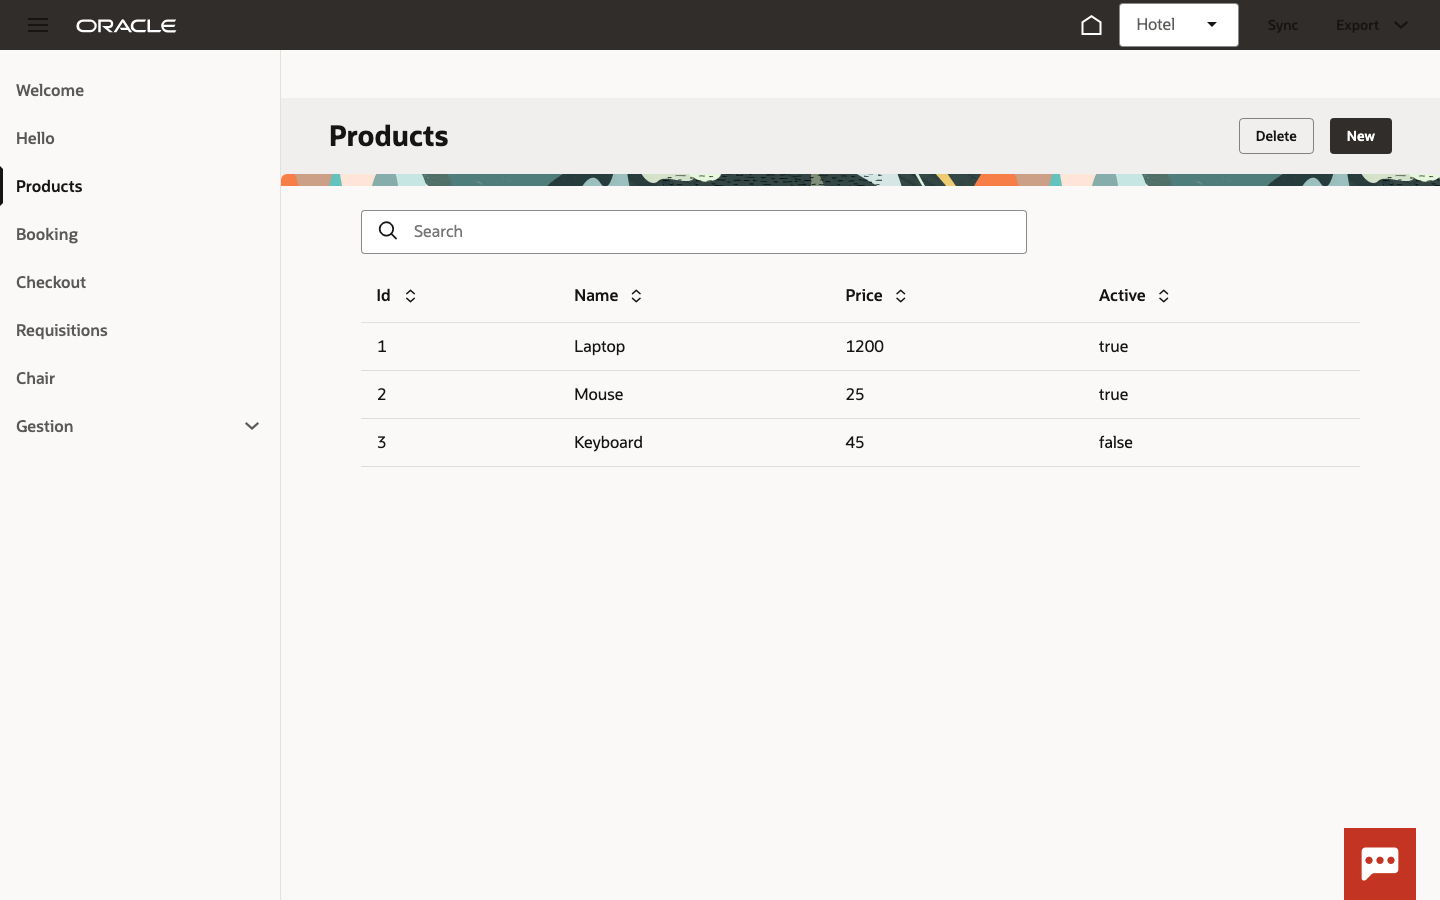
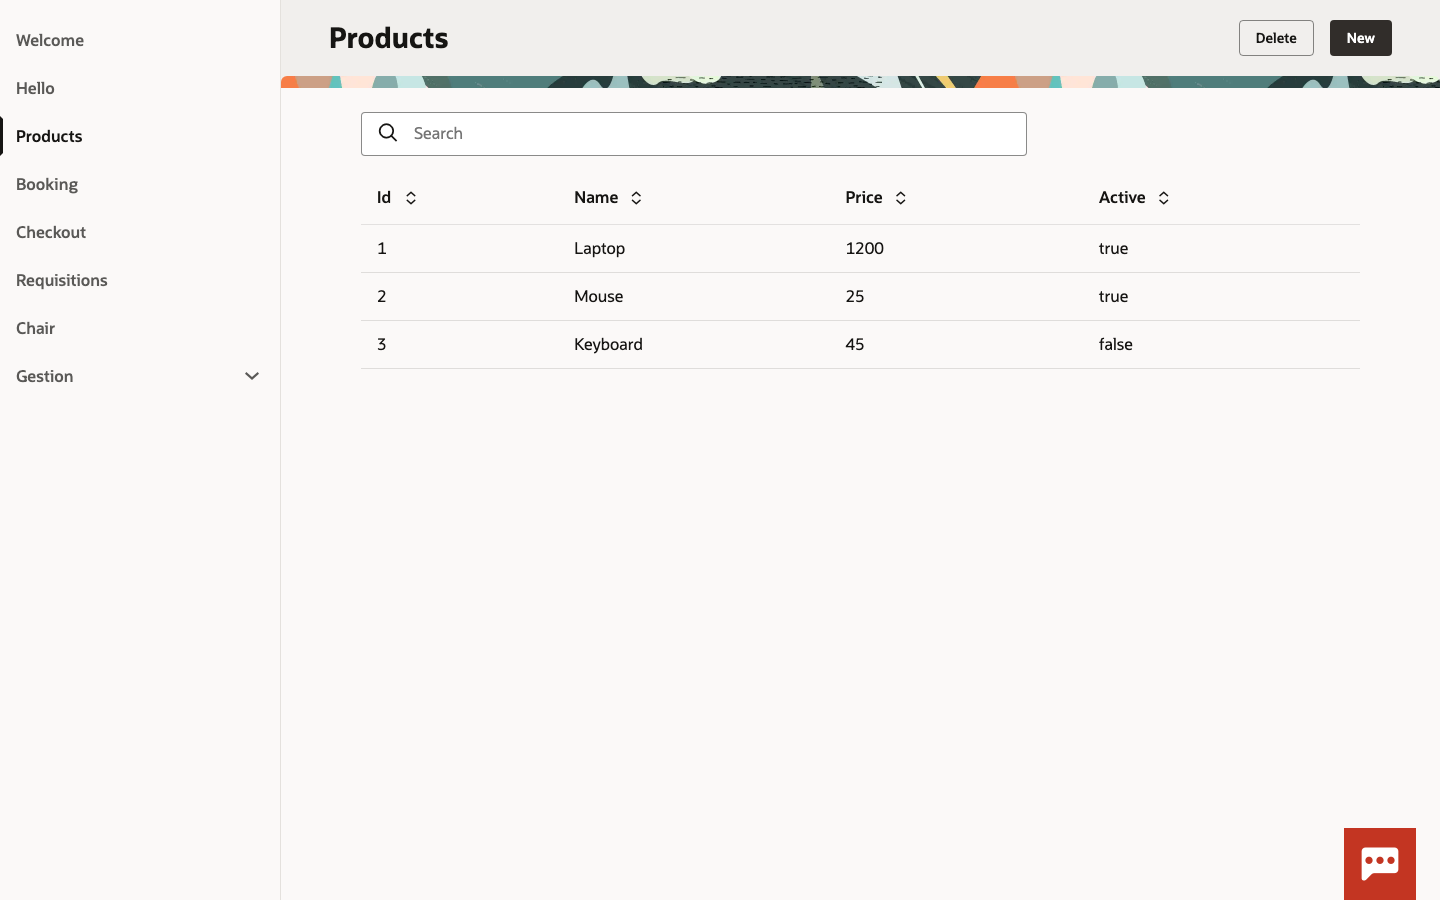
fix(vb): la rama de texto vacía pintaba una banda blanca encima del header
En páginas sin formulario (welcome, listado, wizard, overview) el div de la
rama de texto se renderizaba vacío y, con el padding vertical de los gutters,
dejaba 48px en blanco sobre el header. Ahora solo se pinta cuando hay texto
(!!mateuHostText). Headers a sangre verificados (gap=0) en welcome, products,
hello y checkout.

diff --git a/.dev/vb/mateu-vb/webApps/vbredwoodapp/flows/main/pages/main-start-page.html b/.dev/vb/mateu-vb/webApps/vbredwoodapp/flows/main/pages/main-start-page.html
@@ -18,7 +18,9 @@
     display-options.go-to-parent="false"></oj-sp-header-general-overview>
 </oj-bind-if>
 
-<oj-bind-if test="[[ !$application.variables.mateuFormMetadata ]]">
+<!-- solo cuando hay texto de verdad: si no, el div (con su padding) pinta una banda
+     vacía encima del header de las páginas sin formulario -->
+<oj-bind-if test="[[ !!$application.variables.mateuHostText ]]">
   <div class="oj-flex oj-sm-padding-12x-horizontal oj-sm-padding-6x-vertical">
     <div class="oj-flex-item oj-sm-12 oj-md-12">
       <oj-bind-text

diff --git a/.dev/vb/DESIGN-NOTES.md b/.dev/vb/DESIGN-NOTES.md
@@ -472,8 +472,16 @@ espaciado JET (escala 1x=4px, hasta 12x) son la vía oficial OJET. Medido empír
 (getComputedStyle sobre probes): el h1 del header queda a 48px del borde del contenedor; con
 12x el form/tabla quedan alineados EXACTAMENTE con el título.
 
+**GOTCHA (2026-07-25)**: la rama de TEXTO del content page estaba condicionada a
+`!mateuFormMetadata` — en toda página sin formulario (welcome, listado, wizard, overview…)
+pintaba un div VACÍO que, con el padding vertical de los gutters, era una banda blanca de 48px
+ENCIMA del header. Condición correcta: `!!mateuHostText` (solo cuando hay texto de verdad).
+En `/hello` lo que aparece sobre el header de página NO es un hueco: es el `@Banner` INFO del
+wire (oj-sp-messages-banner del shell, bajo el header global — su animación de montaje tapa
+el header global unos ms, transitorio).
+
 Evidencia: `shots/fase4.png` (products), `hdr-person.png`, `hdr-island.png`, `hdr-hello.png`,
-`hdr-booking.png`, `hdr-chair.png`.
+`hdr-booking.png`, `hdr-chair.png`, `gap-welcome.png`, `gap-hello.png`, `gap-checkout.png`.
 
 ## Arquetipos Welcome / General Overview / Item Overview — HECHOS (pendiente de verificación)
 
